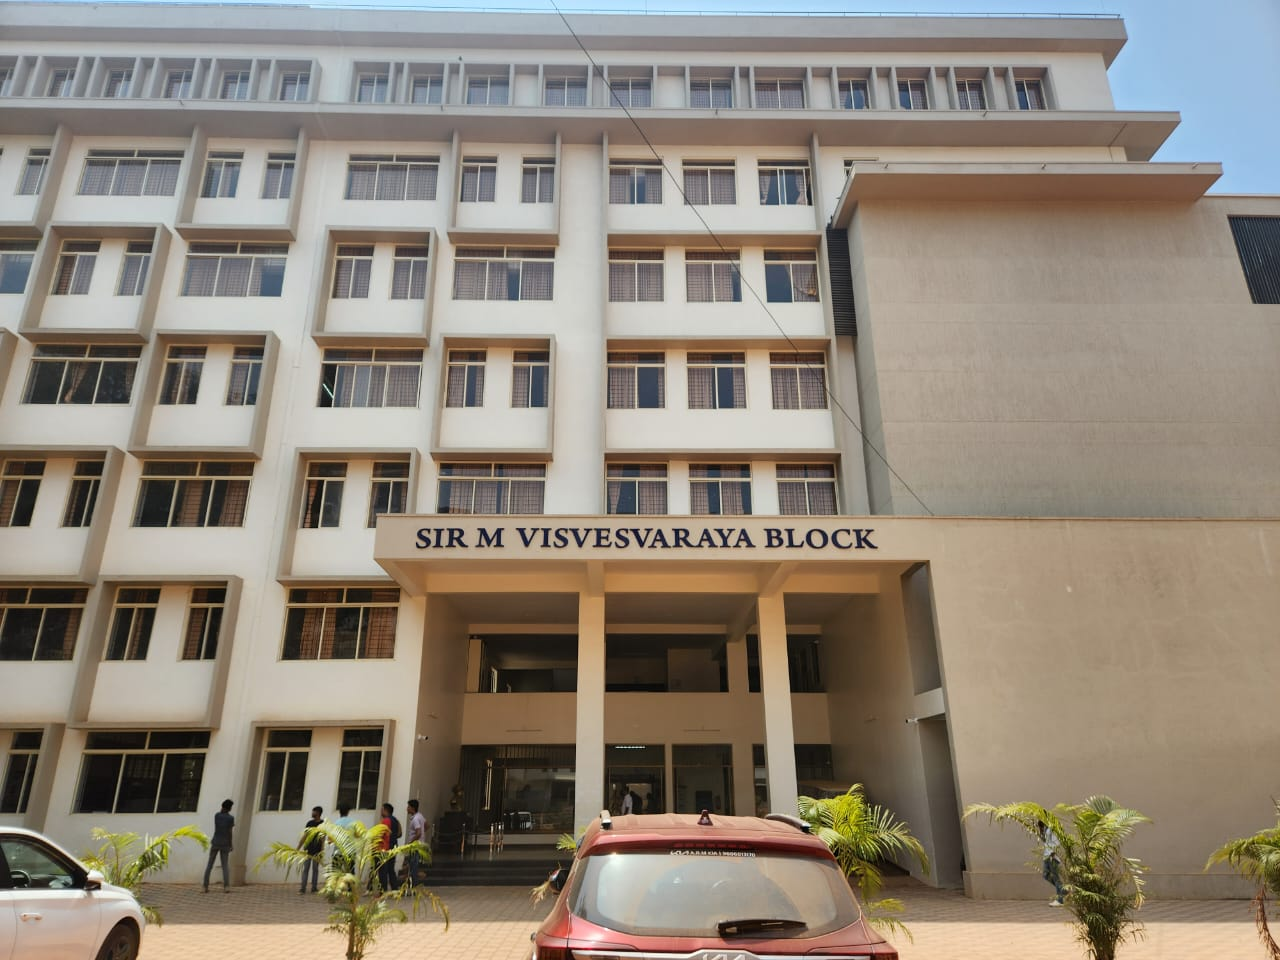
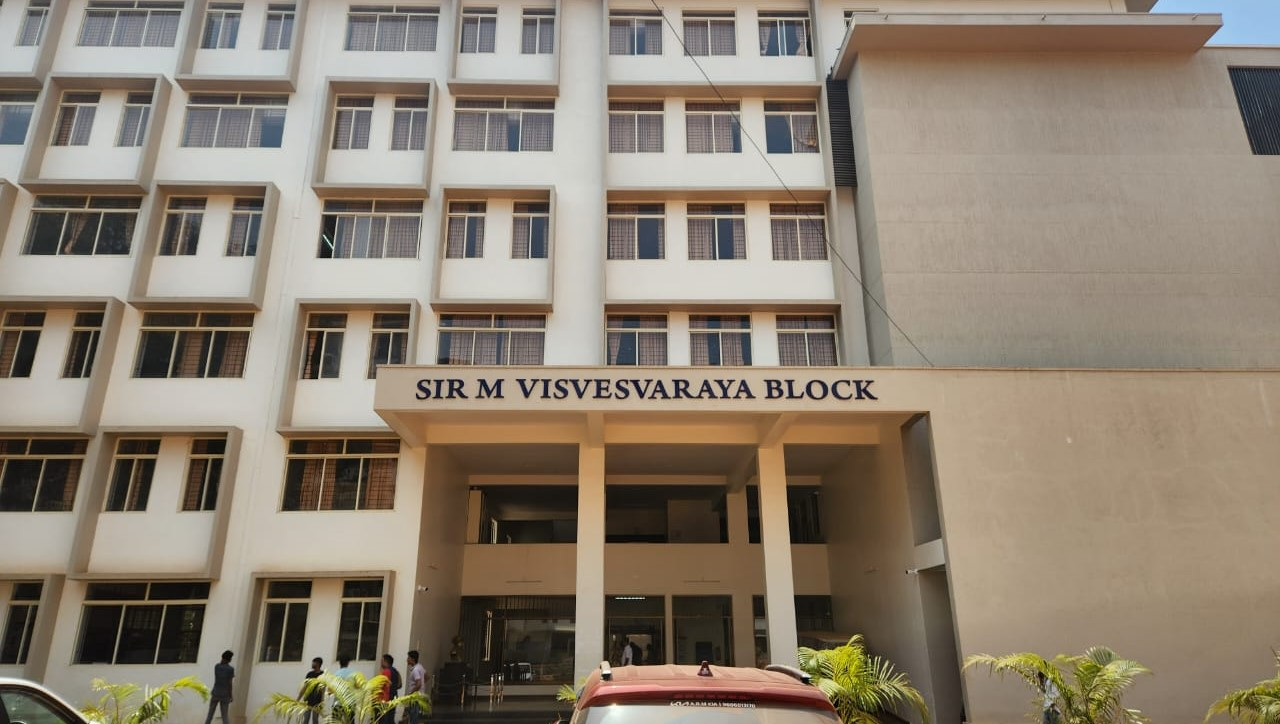
main page img

diff --git a/index.html b/index.html
@@ -96,14 +96,14 @@
                     </a>
                 </div>
                 <div class="blocks block-middle col-7 mt-5 mt-lg-0 col-lg-3 " id="resizing-in-smaller-device">
-                    <a href="robotics.html"><img src="css/images/nitte-bg.jpg" alt=""></a>
+                    <a href="robotics.html"><img src="css/images/robotics-pics/bg-image-header.jpg" alt=""></a>
                     <h2>Robotics block</h2>
                     <a class="visit-page-btn" href="robotics.html">
                         Visit page
                     </a>
                 </div>
                 <div class="blocks col-7 mt-5 mt-lg-0 col-lg-3 " id="resizing-in-smaller-device">
-                    <a href="smv.html"><img src="css/images/nitte-bg.jpg" alt=""></a>
+                    <a href="smv.html"><img src="css/images/SMV BLCK/5/SMV MAIN BLOCK.jpg" alt=""></a>
                     <h2>SMV block</h2>
                     <a class="visit-page-btn" href="smv.html">
                         Visit page
@@ -113,7 +113,7 @@
             </div>
             <div class="row mt-5 mb-lg-5">
                 <div class="blocks col-7  col-lg-3 " id="resizing-in-smaller-device">
-                    <a href=""><img src="css/images/nitte-bg.jpg" alt=""></a>
+                    <a href=""><img src="css/images/APJ KALAM BLOCK/APJ KALAM BLOCK PIC 2.jpg" alt=""></a>
                     <h2>APJ block</h2>
                     <a class="visit-page-btn" href="apj.html">
                         Visit page
